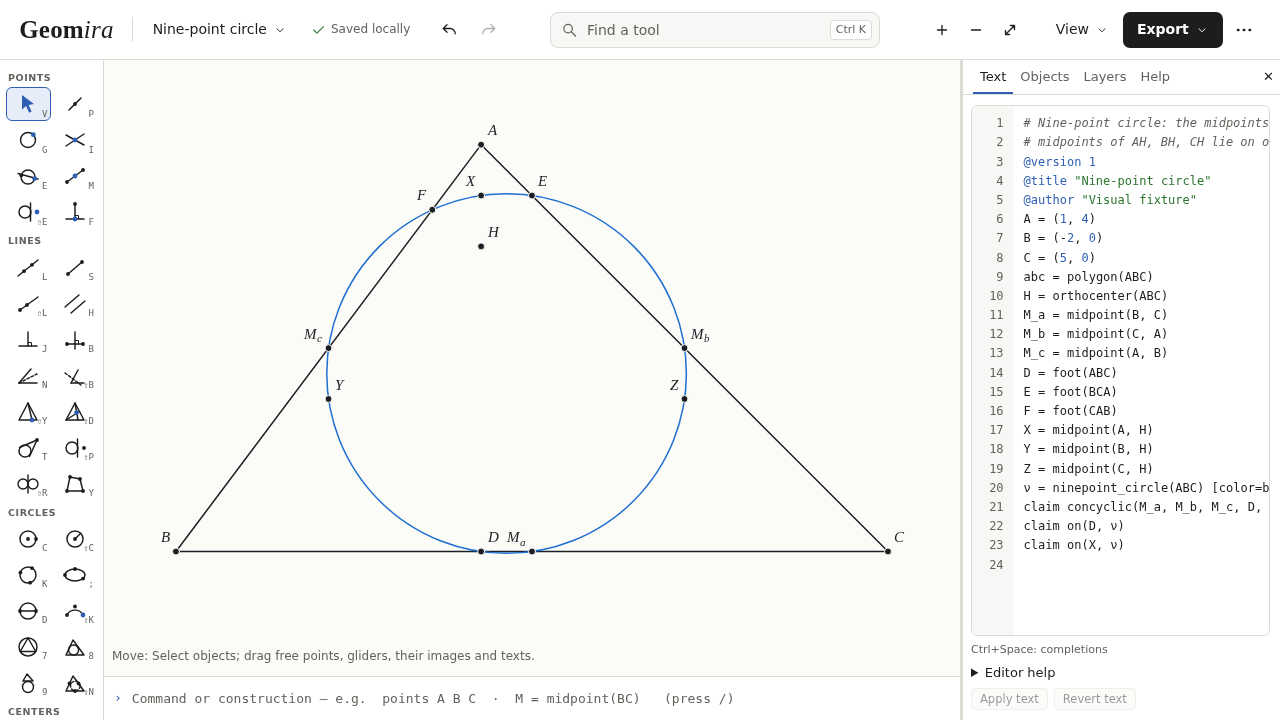
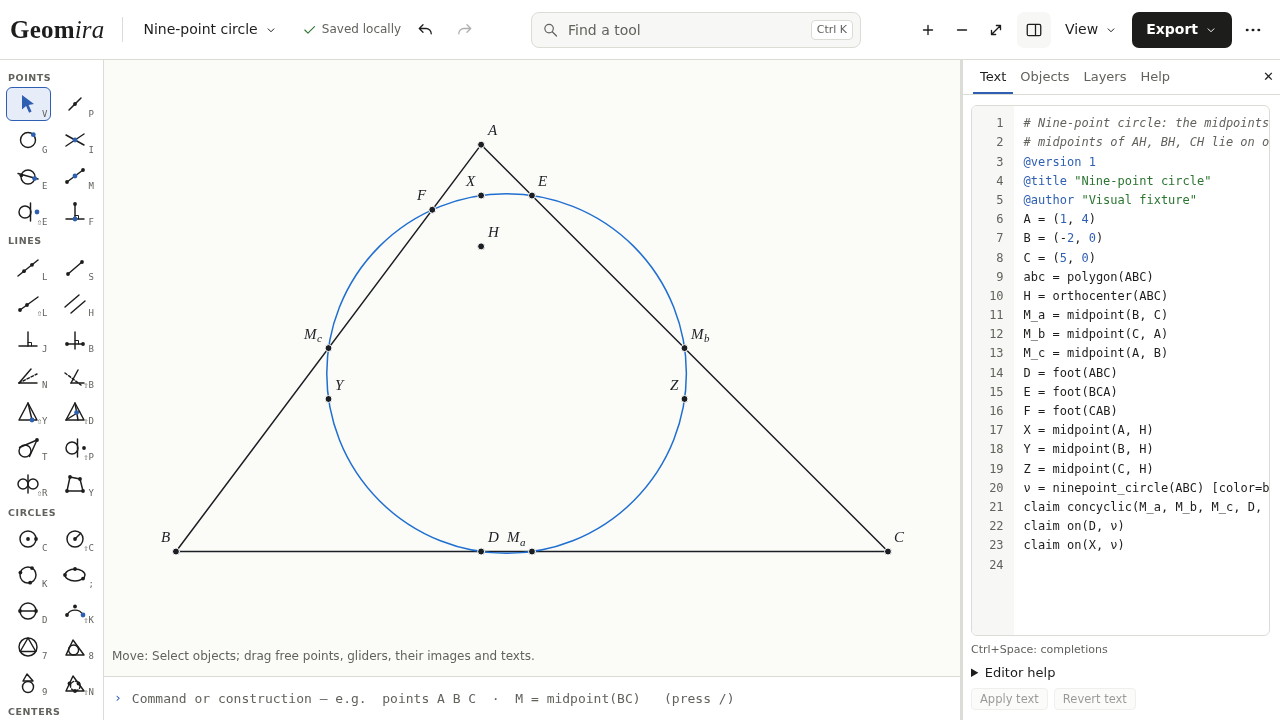
Expose figure panels in the toolbar and propose a write-up editor (ADR-0081)

diff --git a/apps/web/e2e/workspace.spec.ts b/apps/web/e2e/workspace.spec.ts
@@ -22,7 +22,7 @@ for (const width of [320, 390, 760, 768, 820, 1024, 1440]) {
     for (const name of [/^File: /u, 'Undo', 'Redo', 'View', 'Export', 'More actions'])
       await usable(page, page.getByRole('button', { name, exact: true }));
     const header = page.getByRole('banner');
-    for (const name of ['Zoom in', 'Zoom out', 'Fit']) {
+    for (const name of ['Zoom in', 'Zoom out', 'Fit', 'Figure panels']) {
       const control = header.getByRole('button', { name, exact: true });
       await usable(page, control);
       await control.click({ trial: true });
@@ -36,7 +36,7 @@ for (const width of [320, 390, 760, 768, 820, 1024, 1440]) {
       const positions = await page.getByRole('banner').evaluate((header) =>
         [
           ...header.querySelectorAll(
-            '.document-trigger,.history-group button,.tool-search input,.zoomctl button,.header-actions > .menu-wrap > button',
+            '.document-trigger,.history-group button,.tool-search input,.zoomctl button,.panel-toggle,.header-actions > .menu-wrap > button',
           ),
         ].map((control) => {
           const box = control.getBoundingClientRect();
@@ -213,3 +213,37 @@ test('short phone sheet exposes the canvas and active field with a small viewpor
   const canvas = await page.getByLabel('Geometry canvas').boundingBox();
   expect(canvas?.height ?? 0).toBeGreaterThanOrEqual(60);
 });
+
+for (const width of [320, 1280]) {
+  test(`toolbar panel shortcut retains tab and exact draft at ${String(width)} pixels`, async ({
+    page,
+  }) => {
+    await page.setViewportSize({ width, height: 800 });
+    const errors = await openApp(page);
+    const toggle = page.getByRole('banner').getByRole('button', { name: 'Figure panels' });
+    const body = page.locator('#figure-panel-body');
+    await expect(toggle).toHaveAttribute('aria-controls', 'figure-panel-body');
+    await expect(toggle).toHaveAttribute('aria-expanded', String(width > 760));
+    if (width <= 760) await toggle.click();
+    const area = page.getByLabel('Text', { exact: true });
+    const draft = 'A = (0, 0)\nB = (\n';
+    await area.fill(draft);
+    await tab(page, 'Layers');
+    await toggle.press('Enter');
+    await expect(body).toBeHidden();
+    await expect(toggle).toHaveAttribute('aria-expanded', 'false');
+    await toggle.press('Space');
+    await expect(body).toBeVisible();
+    await expect(page.getByRole('tab', { name: 'Layers' })).toHaveAttribute(
+      'aria-selected',
+      'true',
+    );
+    await page.getByRole('button', { name: 'Hide panels', exact: true }).click();
+    await expect(toggle).toHaveAttribute('aria-expanded', 'false');
+    await toggle.click();
+    await tab(page, 'Text');
+    await expect(area).toHaveValue(draft);
+    await expect(toggle).toHaveAttribute('aria-expanded', 'true');
+    expect(errors).toEqual([]);
+  });
+}

diff --git a/apps/web/src/header.css b/apps/web/src/header.css
@@ -235,15 +235,23 @@
 .topbar .claim-form {
   flex: 0 1 220px;
 }
-@media (max-width: 1130px) and (min-width: 761px) {
+@media (max-width: 1280px) and (min-width: 761px) {
   .topbar {
-    gap: 8px;
+    gap: 4px;
     padding: 0 10px;
+  }
+}
+@media (max-width: 1130px) and (min-width: 761px) {
+  .search-shortcut {
+    display: none;
+  }
+  .tool-search input {
+    padding-right: 8px;
   }
   .topbar:has(.claim-form) {
     display: grid;
-    grid-template-columns: auto auto minmax(0, 1fr) auto auto;
-    gap: 4px 8px;
+    grid-template-columns: auto auto minmax(0, 1fr) auto auto auto;
+    gap: 4px;
     padding-block: 6px;
   }
   .topbar .claim-form {
@@ -252,27 +260,25 @@
     width: 100%;
   }
   .topbar:has(.claim-form) .header-actions {
-    grid-column: 5;
+    grid-column: 6;
     grid-row: 1;
-  }
-  .search-shortcut {
-    display: none;
-  }
-  .tool-search input {
-    padding-right: 8px;
   }
 }
 @media (max-width: 760px) {
   .topbar {
     display: grid;
-    grid-template-columns: auto minmax(0, 1fr) auto;
+    grid-template-columns: auto minmax(0, 1fr) auto auto;
     gap: 0 4px;
     padding: 2px 6px 5px;
   }
   .zoomctl {
-    grid-column: 3;
+    grid-column: 4;
     grid-row: 1;
     justify-self: end;
+  }
+  .panel-toggle {
+    grid-column: 3;
+    grid-row: 2;
   }
   .history-group,
   .toolbar-search,
@@ -280,7 +286,7 @@
     grid-row: 2;
   }
   .document-group {
-    grid-column: 1 / 3;
+    grid-column: 1 / 4;
     grid-row: 1;
     gap: 8px;
   }
@@ -373,6 +379,10 @@
 }
 
 @media (max-width: 360px) {
+  .topbar {
+    padding-inline: 2px;
+    column-gap: 1px;
+  }
   .topbar .brand h1::before,
   .topbar .brand h1::after {
     font-size: 16px;

diff --git a/apps/web/src/Header.tsx b/apps/web/src/Header.tsx
@@ -11,6 +11,7 @@ import { Menu, MenuItem } from './Menu';
 
 export interface HeaderProps {
   readonly search?: ReactNode;
+  readonly panels?: { readonly expanded: boolean; readonly toggle: () => void };
   readonly workspaceActions?: (close: () => void) => ReactNode;
   readonly persistence?: ReactNode;
   readonly documents?: ReactNode;
@@ -281,6 +282,19 @@ export function Header(p: HeaderProps) {
       </section>
       {CLAIM_TESTING && <ClaimBox label="Claim to test" className="claim-form" host={p.claimBox} />}
       <ZoomControls onFit={p.onFit} onZoom={p.onZoom} />
+      {p.panels && (
+        <button
+          type="button"
+          className="tb icon panel-toggle"
+          aria-label="Figure panels"
+          aria-controls="figure-panel-body"
+          aria-expanded={p.panels.expanded}
+          title={p.panels.expanded ? 'Close figure panels' : 'Open figure panels'}
+          onClick={p.panels.toggle}
+        >
+          <HeaderIcon name="panels" />
+        </button>
+      )}
       <div className="header-actions">
         <ViewMenu {...p} />
         <ExportMenu {...p} />

diff --git a/apps/web/src/HeaderIcon.tsx b/apps/web/src/HeaderIcon.tsx
@@ -5,7 +5,8 @@ const paths = {
   search: 'M16 10a6 6 0 1 1-12 0 6 6 0 0 1 12 0Zm-1.5 4.5 6 6',
   down: 'm7 10 5 5 5-5',
   more: 'M4 12h.5m7.25 0h.5m7.25 0h.5',
-  view: 'M3 5h18v14H3z M15 5v14',
+  panels: 'M5 4.5h14a2 2 0 0 1 2 2v11a2 2 0 0 1-2 2H5a2 2 0 0 1-2-2v-11a2 2 0 0 1 2-2Z M14 5v14',
+  view: 'M2 12s3.5-7 10-7 10 7 10 7-3.5 7-10 7S2 12 2 12Z M15 12a3 3 0 1 1-6 0 3 3 0 0 1 6 0Z',
   export: 'M12 3v12m-5-5 5 5 5-5 M4 16v4h16v-4',
   saved: 'm4.5 12 5 5L20 6.5',
   warning: 'M12 5v8m0 4v.2',

diff --git a/apps/web/src/SidePanel.tsx b/apps/web/src/SidePanel.tsx
@@ -154,7 +154,7 @@ export function SidePanel(props: SidePanelProps) {
       <p className="panel-scroll-hint">
         Scroll up for the figure; down for tools and the command bar.
       </p>
-      <div className="tab-body" role="tabpanel" aria-label={`${tab} panel`}>
+      <div id="figure-panel-body" className="tab-body" role="tabpanel" aria-label={`${tab} panel`}>
         <Body
           tab={tab}
           store={store}

diff --git a/apps/web/src/workspace.ts b/apps/web/src/workspace.ts
@@ -88,5 +88,6 @@ export function usePanels(workspace: Workspace) {
     setOpen(false);
     if (window.innerWidth > 760) workspace.update({ collapsed: true });
   }, [workspace.update]);
-  return { tab, open, showTab, toggleHelp, close };
+  const expanded = workspace.view.width <= 760 ? open : !workspace.prefs.collapsed;
+  return { tab, open, expanded, showTab, toggleHelp, close };
 }

diff --git a/apps/web/src/App.tsx b/apps/web/src/App.tsx
@@ -254,6 +254,13 @@ function PageHeader({
   return (
     <Header
       {...app.header.props}
+      panels={{
+        expanded: app.panels.expanded,
+        toggle: () => {
+          if (app.panels.expanded) app.panels.close();
+          else app.panels.showTab(app.panels.tab);
+        },
+      }}
       search={
         <ToolSearch
           inputRef={app.searchRef}

diff --git a/docs/design/write-up-editor.md b/docs/design/write-up-editor.md
@@ -1,0 +1,43 @@
+# Proposal for a Write-up panel
+
+A solver should be able to drag a point, jot down why two angles are equal, and reopen the figure with that explanation intact. Add **Write-up** to the figure panels. Keep **Text** for construction commands. The toolbar panel button returns to whichever tab the solver last used.
+
+## Writing beside the figure
+
+Start in **Write**, with one labelled native textarea. Offer **Preview** in the same space and **Download Markdown** from either mode. Preserve the caret, selection, scroll position and undo history while the user visits another tab or the canvas. Use the existing resizable sidebar on desktop and the existing sheet on phones. Opening Preview should keep the mobile keyboard closed. Give keyboard and screen reader users named controls and a route from a formula diagnostic to its exact source.
+
+Support paragraphs, headings, lists, emphasis, code spans and fenced code, inline math such as `$\\angle ABC$`, and display math between `$$` delimiters. Code and escaped dollar signs stay literal. Preserve indentation, blank lines, trailing spaces, Unicode and the final newline in the editable source. Treat pasted text as plain text. Give native input control of composition, selection and undo. Canvas shortcuts should resume when focus returns to the canvas.
+
+## What the Geomdraw reference tells us
+
+Geomdraw's `neCommit` copies the source into `app.solution` and schedules a save before typesetting. Keep that ordering. Its `save` returns while the link guard is active, and editing the solution alone does not release that guard. Its delayed storage write also catches and discards storage errors. Both paths leave the writer without a reliable acknowledgement. Its live editor rebuilds a contenteditable DOM and maps the caret back through formatted math. A native source field with a separate read-only preview removes that dependency on DOM reconstruction.
+
+## Document, file and recovery contract
+
+- Own the raw write-up in the document session, outside the tab component. Each input, including deletion to an empty string, updates memory and marks the document dirty immediately. A first note on a linked figure or example starts an editable local revision. Keep geometry history and native writing history independent. Applying construction text, dragging a point or undoing a geometry edit must use the latest write-up.
+- Extend the portable `.geo` format. Continue emitting version 1 for geometry alone. Propose version 2 for documents with notes, with one `@writeup` directive containing a JSON-escaped string on one physical line. The codec handles quotes, backslashes, control characters and newlines. A bad LaTeX expression is ordinary string content. The Text panel edits the construction projection and preserves the write-up during Apply or Revert. Write-up is edited through its own tab. Full-file Open validates the format before replacing the current document. Older readers already reject an unknown version. Keep old files, recovery records and links readable.
+- Serialize the latest settled geometry and raw write-up into **one** revision through Geomira's existing IndexedDB queue. Track the local edit generation on every input. A completed transaction may acknowledge only the generation it captured. Coalesce intermediate writes, queue newer inputs during an in-flight write, and limit the delay during continuous typing. Keep the last durable revision on abort. A stale second tab produces recoverable conflict revisions under the existing compare-and-write policy.
+- Show the existing save state in the toolbar. Mark a change pending immediately, including when the only change is in Write-up. On storage denial, quota exhaustion or a conflict, keep the text editable and offer Retry, Recovery and a raw Markdown download. A download request has its own status. Never truncate oversized content to satisfy file, share or local-retention limits. Offer the complete Markdown and a geometry backup if the combined portable file exceeds the existing import budget.
+- On New, Open, example selection, link navigation, restore or PWA update, flush pending work and recheck the document identity and edit generation after the asynchronous save. Preserve the active session if the save fails or input arrives during the switch. Guard active IME composition and disclose unapplied construction drafts separately. Save As copies both parts into a new identity. On backgrounding, start a flush. Abrupt termination can recover only a completed write, so display **Saved locally** only after the corresponding transaction completes.
+- Start share links in figure-only mode. Offer **Include write-up** before copying and show what the recipient will receive. Apply the existing decoded text and encoded fragment limits to the chosen payload. An oversized share gets a complete downloadable file within the import budget. Geometry image exports continue to show the drawing.
+
+## Preview contract
+
+Parse and render a derived snapshot after the source has been accepted for saving. Tag preview jobs with the document identity and edit generation. Discard stale results. Use a locally bundled, reviewed math renderer for hosted, offline and standalone use. Limit expansions, rendered size and work per preview. Keep renderer macros scoped to the current expression. Disable trusted commands, raw HTML and remote resources. Emit ordinary Markdown as safe text and elements. Provide accessible math output.
+
+An unfinished delimiter stays visible as source. An invalid expression shows its original source and a nearby diagnostic while surrounding paragraphs and valid formulas still render. If the whole preview fails or exceeds its budget, keep Write, Save, Recovery and Download Markdown available. Announce errors on demand or when entering Preview so typing does not trigger an alert on every keystroke.
+
+## Release checks
+
+| Exercise | Required result |
+| --- | --- |
+| Type incomplete math, an unknown command and an unmatched brace. Force the renderer to throw. | Save completes. Reload, restore and Markdown download all reproduce the input, including the final newline. The figure stays editable. |
+| Paste code containing dollars, escaped dollars, quotes, Unicode and blank lines. Compose text with an IME. | The source round-trips exactly through the file codec. Preview leaves code literal. Switching modes preserves selection and native Undo. |
+| Type only in a link or example, then close the panel and draw. Reverse the order. Run geometry Undo. | The same document contains both edits. A write-up edit alone starts local recovery, and geometry Undo preserves the notes. |
+| Stall the first transaction, type again and finish the first write. Inject an abort, quota error and denied storage. | The older write cannot acknowledge the latest text. Failed writes preserve memory and the last durable revision. Retry recovers the latest input. |
+| Edit one document in two tabs, then restore and duplicate it. | Both conflicting revisions remain recoverable with their own geometry and notes. Editing the duplicate leaves the original intact. |
+| Switch documents or request a PWA update while composing, while a save is in flight and with an invalid construction draft. | No silent replacement. Cancel retains all input. A successful switch after acknowledgement opens only the selected document's content. |
+| Import legacy and new files, round-trip sharing with and without notes, and exceed file, share and storage bounds. | Old figures open normally. Notes survive full-document transport. Figure-only links omit them. Size errors leave the active session intact and offer exact backups. |
+| Exercise keyboard, touch, mobile viewport resize, offline hosting and the standalone HTML in Chromium, Firefox and WebKit. | The writer can always reach the figure, editor, save status and download. Native typing, IME and geometry shortcuts use the intended focus. |
+
+Start with codec round-trip and persistence fault-injection tests. Then add a source-only editor and pass switching, recovery and export tests. Add typeset preview last and rerun the same tests with the renderer unavailable. Review renderer and font licences, accessibility, offline package size and dependencies before implementation.

diff --git a/docs/STATUS.md b/docs/STATUS.md
@@ -1,5 +1,17 @@
 # STATUS
 
+## Direct access to figure panels
+
+The sidebar icon beside View opens or closes the last-used figure panel on desktop and phone. Its expanded state follows the existing panel controls. [ADR-0081](adr/0081-panel-shortcut.md) records the header change. The [Write-up editor proposal](design/write-up-editor.md) describes document storage, Markdown and LaTeX preview, and the release tests for a future editor.
+
+Local Chromium checked the shortcut, active tab and exact unfinished Text draft at 320, 390, 768 and 1440 px. The public header measured 96 px at the two phone sizes and 60 px at both desktop sizes. Both public and all three internal full-workspace screenshot cases passed.
+
+Changed frozen tests under ADR-0081 include the workspace header checks and the full-workspace images in public-layout, flows-design and design-mobile.
+
+### Requests
+
+Review the proposed versioned write-up field and the offline math renderer, fonts, licences and size budget before editor implementation. This change adds no runtime dependencies.
+
 ## Zoom controls in the workspace header
 
 [ADR-0080](adr/0080-zoom-in-workspace-header.md) moves Zoom in, Zoom out and Fit

diff --git a/docs/adr/0081-panel-shortcut.md b/docs/adr/0081-panel-shortcut.md
@@ -1,0 +1,5 @@
+# ADR-0081 Direct access to figure panels
+
+Opening the last-used figure panel from the desktop header required opening View first. Put a sidebar icon beside the view controls and expose the active panel body as its disclosure target. Drive its expanded state from the existing desktop collapse preference or phone sheet state. The original View action, panel tabs and close button continue to use those same controls. A new independent open flag would let the icon drift out of sync with them.
+
+Keep the existing desktop and phone header heights. On a phone the document controls share the first row with Zoom, and the panel shortcut sits before View in the second row. Update the full-workspace image fixtures to show the direct control. The Write-up editor is a separate proposal in [the design notes](../design/write-up-editor.md).

diff --git a/docs/workspace.md b/docs/workspace.md
@@ -10,7 +10,7 @@ The complete grouped palette stays available. Tab enters its last focused tool o
 leaves the palette. Up/Down move within the desktop toolbar; Left/Right follow the phone
 strip; Home/End go to its ends. Native text-field arrows continue to edit text.
 
-On desktop, **Hide panels** makes room for the canvas and **View → Show panels** restores the sidebar.
+Use the sidebar icon beside **View** to open or close **Figure panels** on desktop or phone. It reopens the last-used tab. **Hide panels** and **View → Show panels** also control the sidebar.
 Drag its left edge or focus the **Resize panels** separator and use arrow keys, Home or End.
 The width is constrained to preserve drawing space. Collapse and resize preserve text drafts
 and do not add geometry undo entries.
